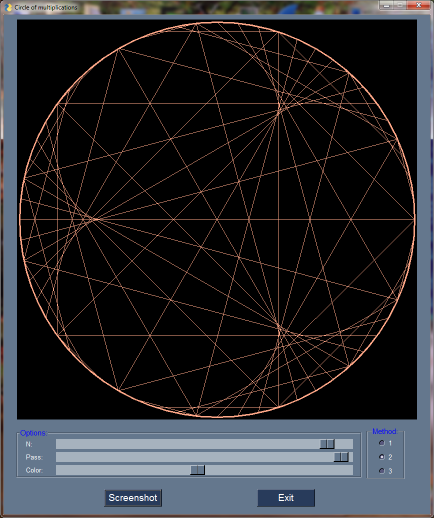
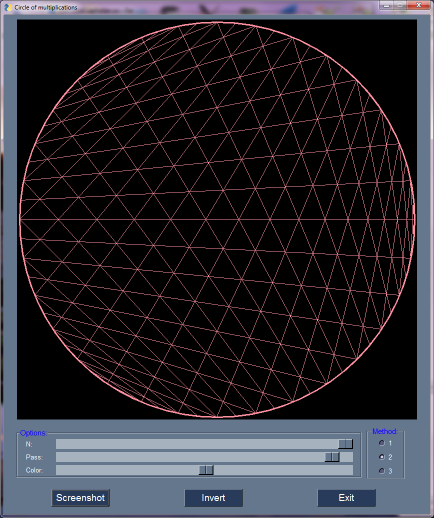
added color invertion feature

Changed region(s): [[0.0, 0.0, 0.9585, 0.8031], [0.0, 0.0, 1.0, 1.0], [0.7189, 0.834, 0.8088, 0.8958]]

diff --git a/circlesmul.py b/circlesmul.py
@@ -14,6 +14,7 @@ y0 = height / 2
 Radius = (width - 10) // 2
 ScreenShotFName = 'sshot'
 ScreenShotType  = '.png'
+Inverted = False
 
 def viewImage(image, name_of_window):
 	cv2.namedWindow(name_of_window, cv2.WINDOW_NORMAL)
@@ -63,8 +64,9 @@ layout = [[
 			title_location = sg.TITLE_LOCATION_TOP,
 		),	
 	],[
-		sg.Button('Screenshot', size=(10,1), pad=(180,10), font='Hevletica 14', key='-scrshot-'),
-		sg.Button('Exit', size=(10,1), pad=(10,10), font='Hevletica 14')
+		sg.Button('Screenshot', size=(10,1), pad=(75,10), font='Hevletica 14', key='-scrshot-'),
+		sg.Button('Invert', size=(10,1), pad=(75,10), font='Hevletica 14', key='-invert-'),
+		sg.Button('Exit', size=(10,1), pad=(75,10), font='Hevletica 14')
 	],]
 
 window = sg.Window('Circle of multiplications', layout, no_titlebar=False, location=(0,0))
@@ -89,6 +91,9 @@ while True:
 	event, values = window.read(timeout=25)
 	if event == 'Exit' or event == None:
 		break
+	elif event == '-invert-':
+		Inverted = not Inverted
+		old_type = -1
 	elif event == '-scrshot-':
 		if sshotcnt <= 0:
 			files = [f for f in os.listdir() if os.path.isfile(f) and re.match(ScreenShotFName, f)]
@@ -98,20 +103,15 @@ while True:
 				lastnum = 0
 				for f in files:
 					matchstr = '^' + ScreenShotFName + '(\\d+)\\' + ScreenShotType + '$'
-					print("+++ matchstr =", matchstr)
 					matchresult = re.match(matchstr, f)
 					if matchresult:
 						num = int(matchresult.group(1))
 						if lastnum < num:
 							lastnum = num
-						print("+++ match: '{}', num={}".format(f, num))
-					else:
-						print('+++ not match:', f)
 				sshotcnt = lastnum + 1
 		else:
 			sshotcnt += 1
 		sshotfile = ScreenShotFName + str(sshotcnt) + ScreenShotType
-		print("++++ save screenshot to file: '"+sshotfile+"': '{}' + '{}' + '{}'".format(ScreenShotFName, str(sshotcnt), ScreenShotType))
 		cv2.imwrite(sshotfile, frame)
 	N_value = int(values['-N_slide-'])
 	S_color = values['-color-']
@@ -149,5 +149,8 @@ while True:
 				j = i * (N_mul + 1) % N_value
 				p1,p2 = mmul(i,j)
 				frame = cv2.line(frame, p1, p2, color, 1)
-		imgbytes = cv2.imencode('.png', frame)[1].tobytes()  # ditto
+		if Inverted:
+			print("inverted")
+			frame = cv2.bitwise_not(frame)
+		imgbytes = cv2.imencode('.png', frame)[1].tobytes()
 		image_elem.update(data=imgbytes)

diff --git a/README.md b/README.md
@@ -19,6 +19,8 @@ Some screenshots:
 ![sshot8.png](img/sshot8.png)
 ![sshot9.png](img/sshot9.png)
 ![sshot10.png](img/sshot10.png)
+![sshot11.png](img/sshot11.png)
+![sshot12.png](img/sshot12.png)
 
 ## Requirements:
 
